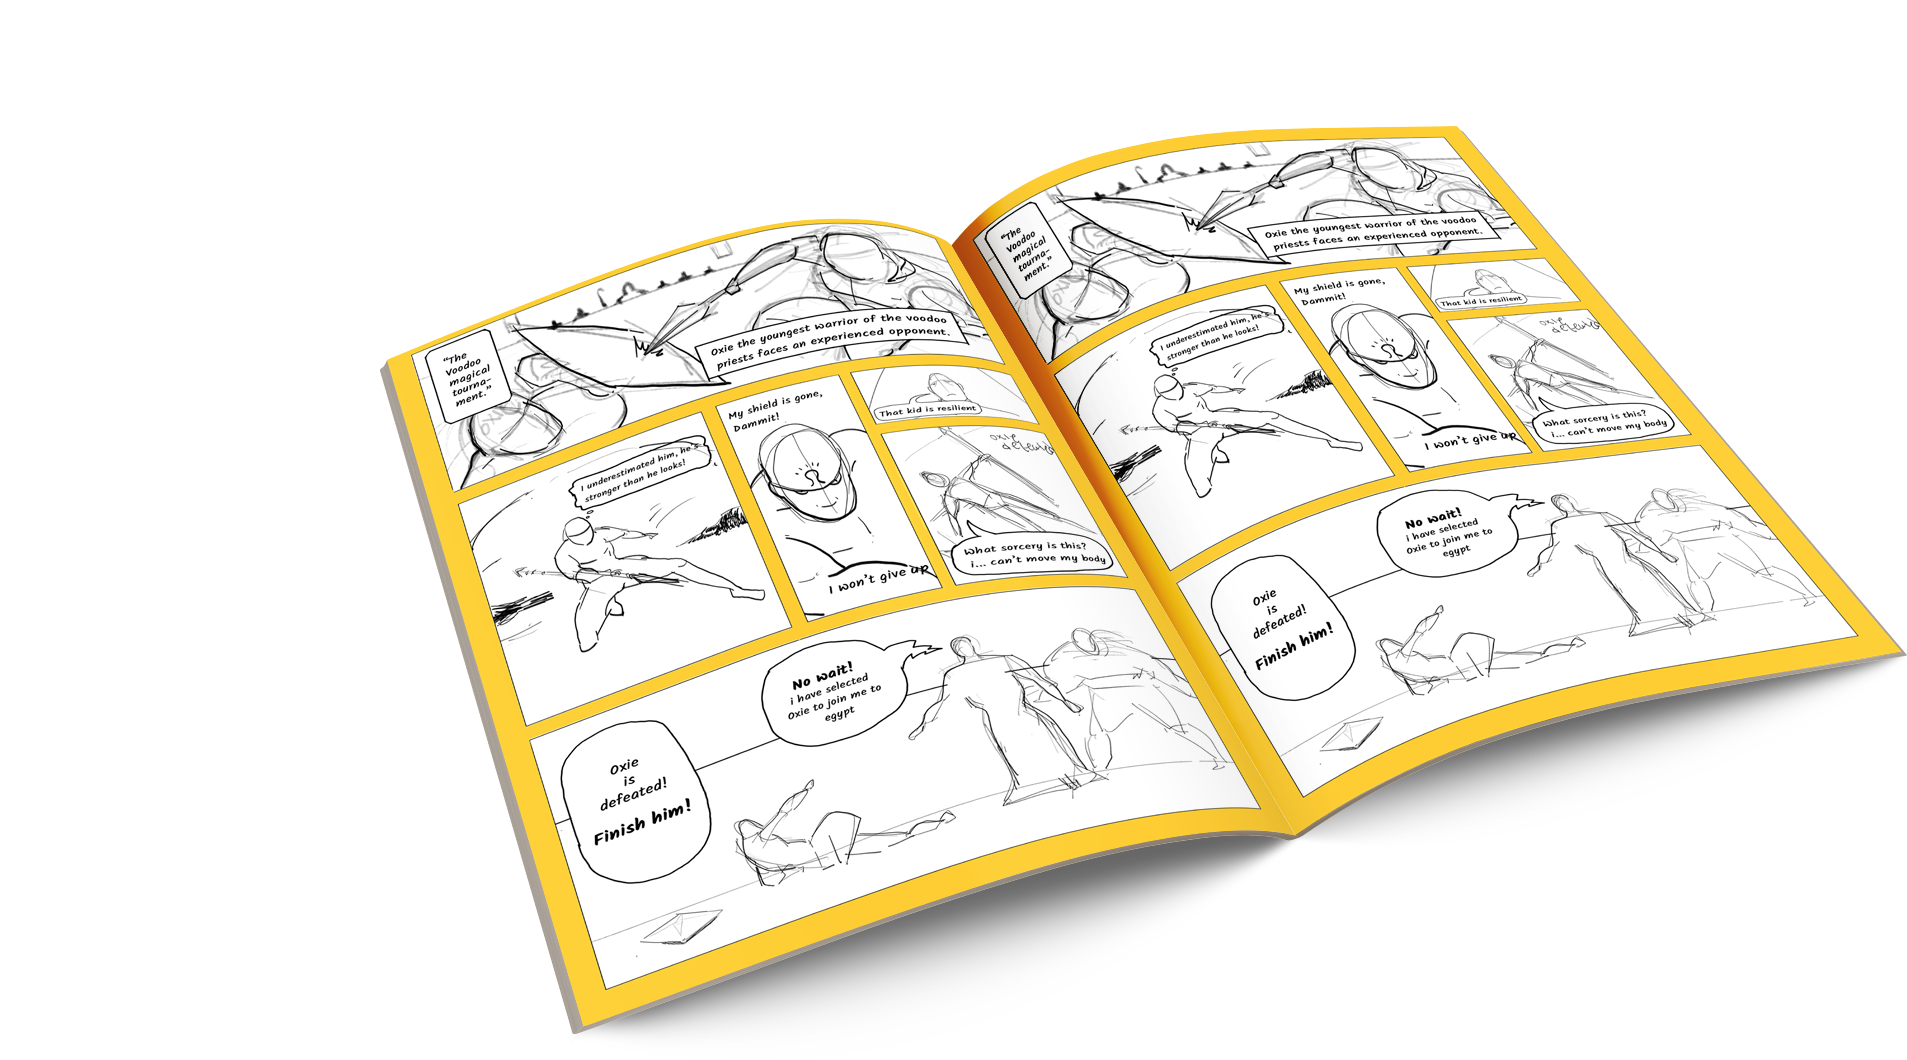
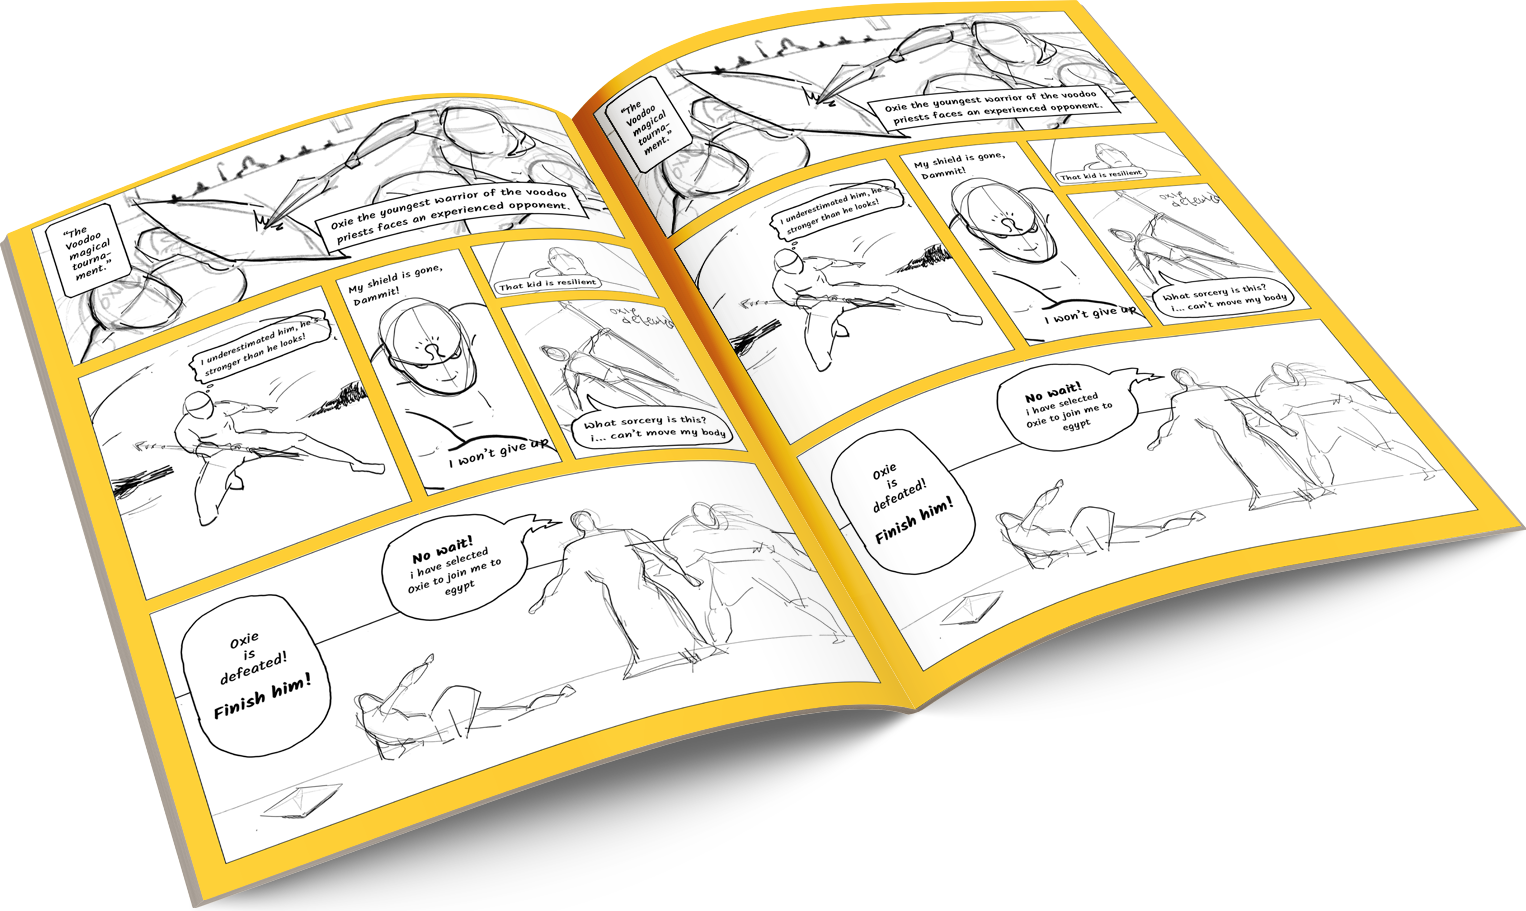
positioned mockup on the right spot

diff --git a/test.html b/test.html
@@ -1,0 +1,34 @@
+<!DOCTYPE html>
+<html lang="en">
+<head>
+    <meta charset="UTF-8">
+    <meta name="viewport" content="width=device-width, initial-scale=1.0">
+    <meta http-equiv="X-UA-Compatible" content="ie=edge">
+    <title>Document</title>
+</head>
+<style>
+section {
+  width:95%;
+  margin-left: auto;
+  margin-right: auto;
+}
+section img {
+  width: 50rem;
+  float: right;
+  shape-outside: polygon(63.5% 21.85%, 67.4% -0.2%, 77% 13.35%, 87.5% 16.8%, 94.65% 44.95%, 95.25% 88.45%, 37.15% 95.75%, 3.75% 75.1%, 2.25% 65.2%, 47.5% 44.35%, 45.5% 16.4%);
+  -webkit-shape-outside: polygon(63.5% 21.85%, 67.4% -0.2%, 77% 13.35%, 87.5% 16.8%, 94.65% 44.95%, 95.25% 88.45%, 37.15% 95.75%, 3.75% 75.1%, 2.25% 65.2%, 47.5% 44.35%, 45.5% 16.4%);
+}
+
+section div {
+margin-right: -15rem;
+}
+</style>
+<body>
+    <section>
+        <div>
+            <img src="https://www.warrenphotographic.co.uk/photography/bigs/14195-Cute-cat-and-kitten-white-background.jpg" alt="" >
+        </div>
+        <p>Lorem ipsum dolor sit amet consectetur adipisicing elit. Modi necessitatibus illum tempore aliquid possimus ea maiores eligendi, id distinctio! Quas, aut vel. Culpa consectetur labore in voluptatum repudiandae cum officiis! Lorem ipsum dolor sit amet consectetur, adipisicing elit. Modi eveniet aperiam maxime, maiores, vel voluptatum quaerat accusamus temporibus, fuga omnis ullam eligendi. Eligendi nulla eaque, maiores earum voluptas sunt excepturi? Lorem ipsum dolor sit amet, consectetur adipisicing elit. Error hic iusto sit, animi quaerat commodi sequi accusamus beatae illum expedita quisquam cupiditate amet magnam. Odit assumenda eaque aliquid mollitia omnis! Lorem ipsum dolor sit amet consectetur adipisicing elit. Maiores veniam numquam adipisci eius quisquam sed! Nulla harum omnis quis blanditiis? Inventore, possimus similique veniam optio perferendis perspiciatis. Modi, accusamus aperiam? Lorem ipsum dolor sit amet consectetur adipisicing elit. Porro, iure laborum eum nisi commodi ipsa architecto esse itaque cumque quis dolorem perferendis iusto harum, placeat nam totam repudiandae alias minima? Lorem, ipsum dolor sit amet consectetur adipisicing elit. Possimus blanditiis quis consequatur cumque minus fugiat cum similique excepturi sunt placeat aspernatur expedita, facere commodi officia deleniti praesentium dolores voluptas doloremque. Lorem ipsum dolor sit amet consectetur adipisicing elit. Nam maxime repellat id magnam dicta rem optio ex soluta odit! Ducimus, expedita et iusto mollitia in delectus officia asperiores ratione nulla. Lorem ipsum dolor sit amet consectetur adipisicing elit. Repellat quibusdam error earum. Aliquam sapiente autem ab perspiciatis vitae ipsum ea iusto? Sequi autem voluptatem, a libero necessitatibus error provident ad. Lorem ipsum dolor sit amet consectetur, adipisicing elit. Quod et perferendis a ab assumenda adipisci consequuntur consectetur architecto voluptatem! Dolorum facilis nam itaque natus blanditiis perspiciatis, minus incidunt doloremque consequuntur? Lorem ipsum dolor, sit amet consectetur adipisicing elit. Similique optio beatae eos error ea unde, explicabo alias voluptates excepturi assumenda placeat quis libero ipsum, officiis, consectetur repellendus laborum amet rem. Lorem ipsum, dolor sit amet consectetur adipisicing elit. Quaerat sequi quas ad, nisi exercitationem dolorem, blanditiis nihil nobis incidunt nemo omnis recusandae architecto pariatur aliquam inventore est eveniet esse. Aperiam. Aliquam sapiente autem ab perspiciatis vitae ipsum ea iusto? Sequi autem voluptatem, a libero necessitatibus error provident ad. Lorem ipsum dolor sit amet consectetur, adipisicing elit. Quod et perferendis a ab assumenda adipisci consequuntur consectetur architecto voluptatem! Dolorum facilis nam itaque natus blanditiis perspiciatis, minus incidunt doloremque consequuntur? Lorem ipsum dolor, sit amet consectetur adipisicing elit. Similique optio beatae eos error ea unde, explicabo alias voluptates excepturi assumenda placeat quis libero ipsum, officiis, consectetur repellendus laborum amet rem. Lorem ipsum, dolor sit amet consectetur adipisicing elit. Quaerat sequi quas ad, nisi exercitationem dolorem, blanditiis nihil nobis incidunt nemo omnis recusandae architecto pariatur aliquam inventore est eveniet esse. Aperiam. Aliquam sapiente autem ab perspiciatis vitae ipsum ea iusto? Sequi autem voluptatem, a libero necessitatibus error provident ad. Lorem ipsum dolor sit amet consectetur, adipisicing elit. Quod et perferendis a ab assumenda adipisci consequuntur consectetur architecto voluptatem! Dolorum facilis nam itaque natus blanditiis perspiciatis, minus incidunt doloremque consequuntur? Lorem ipsum dolor, sit amet consectetur adipisicing elit. Similique optio beatae eos error ea unde, explicabo alias voluptates excepturi assumenda placeat quis libero ipsum, officiis, consectetur repellendus laborum amet rem. Lorem ipsum, dolor sit amet consectetur adipisicing elit. Quaerat sequi quas ad, nisi exercitationem dolorem, blanditiis nihil nobis incidunt nemo omnis recusandae architecto pariatur aliquam inventore est eveniet esse. Aperiam. Aliquam sapiente autem ab perspiciatis vitae ipsum ea iusto? Sequi autem voluptatem, a libero necessitatibus error provident ad. Lorem ipsum dolor sit amet consectetur, adipisicing elit. Quod et perferendis a ab assumenda adipisci consequuntur consectetur architecto voluptatem! Dolorum facilis nam itaque natus blanditiis perspiciatis, minus incidunt doloremque consequuntur? Lorem ipsum dolor, sit amet consectetur adipisicing elit. Similique optio beatae eos error ea unde, explicabo alias voluptates excepturi assumenda placeat quis libero ipsum, officiis, consectetur repellendus laborum amet rem. Lorem ipsum, dolor sit amet consectetur adipisicing elit. Quaerat sequi quas ad, nisi exercitationem dolorem, blanditiis nihil nobis incidunt nemo omnis recusandae architecto pariatur aliquam inventore est eveniet esse. Aperiam.Aliquam sapiente autem ab perspiciatis vitae ipsum ea iusto? Sequi autem voluptatem, a libero necessitatibus error provident ad. Lorem ipsum dolor sit amet consectetur, adipisicing elit. Quod et perferendis a ab assumenda adipisci consequuntur consectetur architecto voluptatem! Dolorum facilis nam itaque natus blanditiis perspiciatis, minus incidunt doloremque consequuntur? Lorem ipsum dolor, sit amet consectetur adipisicing elit. Similique optio beatae eos error ea unde, explicabo alias voluptates excepturi assumenda placeat quis libero ipsum, officiis, consectetur repellendus laborum amet rem. Lorem ipsum, dolor sit amet consectetur adipisicing elit. Quaerat sequi quas ad, nisi exercitationem dolorem, blanditiis nihil nobis incidunt nemo omnis recusandae architecto pariatur aliquam inventore est eveniet esse. Aperiam. Aliquam sapiente autem ab perspiciatis vitae ipsum ea iusto? Sequi autem voluptatem, a libero necessitatibus error provident ad. Lorem ipsum dolor sit amet consectetur, adipisicing elit. Quod et perferendis a ab assumenda adipisci consequuntur consectetur architecto voluptatem! Dolorum facilis nam itaque natus blanditiis perspiciatis, minus incidunt doloremque consequuntur? Lorem ipsum dolor, sit amet consectetur adipisicing elit. Similique optio beatae eos error ea unde, explicabo alias voluptates excepturi assumenda placeat quis libero ipsum, officiis, consectetur repellendus laborum amet rem. Lorem ipsum, dolor sit amet consectetur adipisicing elit. Quaerat sequi quas ad, nisi exercitationem dolorem, blanditiis nihil nobis incidunt nemo omnis recusandae architecto pariatur aliquam inventore est eveniet esse. Aperiam. Aliquam sapiente autem ab perspiciatis vitae ipsum ea iusto? Sequi autem voluptatem, a libero necessitatibus error provident ad. Lorem ipsum dolor sit amet consectetur, adipisicing elit. Quod et perferendis a ab assumenda adipisci consequuntur consectetur architecto voluptatem! Dolorum facilis nam itaque natus blanditiis perspiciatis, minus incidunt doloremque consequuntur? Lorem ipsum dolor, sit amet consectetur adipisicing elit. Similique optio beatae eos error ea unde, explicabo alias voluptates excepturi assumenda placeat quis libero ipsum, officiis, consectetur repellendus laborum amet rem. Lorem ipsum, dolor sit amet consectetur adipisicing elit. Quaerat sequi quas ad, nisi exercitationem dolorem, blanditiis nihil nobis incidunt nemo omnis recusandae architecto pariatur aliquam inventore est eveniet esse. Aperiam.</p>
+      </section>
+</body>
+</html>

diff --git a/index.html b/index.html
@@ -55,48 +55,47 @@
                 </ul>
             </div>        
         </div >
-    </div>  
-
-        <!-- section what is kushobi -->
-        <section class="grid-container fluid"> 
-            <br>
-            <br>
-            <br>
-            <br>
-         
-            <img src="static\images\landing\comic-book-finished.png" alt="Mockup kushobi comic" class="mockup clip-mockup-polygon float-right landing-image"><!-- change the comic book image -->
-
-            <header><h2>What is <span>Kushobi</span></h2></header><!-- capitalize -->
-            <p>Lorem ipsum dolor sit amet consectetur adipisicing elit. Perferendis placeat ipsam amet ratione. Ea eos provident similique, dolores omnis culpa ratione laborum velit corrupti minus! Tempora aliquid cupiditate quam minus?Lorem ipsum dolor, sit amet consectetur adipisicing elit. Nesciunt excepturi voluptatum facere dignissimos quas natus architecto tempore iusto dolor cupiditate cumque officiis deserunt, libero, modi vero omnis atque facilis perspiciatis. Lorem ipsum dolor, sit amet consectetur adipisicing elit. Provident, quo. Odit, magni vitae a assumenda consequatur atque blanditiis nulla numquam quae in vero deleniti asperiores accusamus, excepturi ipsam quisquam incidunt! Lorem ipsum dolor sit amet consectetur adipisicing elit. Nam eum excepturi modi alias dicta nemo veniam ipsum, magnam hic dolor libero iure quod molestiae nostrum obcaecati, tempore quas officia voluptas!</p>
-            <br>
-            <br>
-            <br>
-
-
-        </section>
-
-        <section class="grid-container fluid">
+    </div>
+    <br>
+    <!-- section what is kushobi -->
+    <section class="grid-container fluid">  
+        <div class="grid-x">
+            <div class="cell">
+                    <header><h2>What is <span>Kushobi</span></h2></header><!-- capitalize -->
+                    <p>Lorem ipsum dolor sit amet consectetur adipisicing elit. Perferendis placeat ipsam amet ratione. Ea eos provident similique, dolores omnis culpa ratione laborum velit corrupti minus! Tempora aliquid cupiditate quam minus?Lorem ipsum dolor, sit amet consectetur adipisicing elit. Nesciunt excepturi voluptatum facere dignissimos quas natus architecto tempore iusto dolor cupiditate cumque officiis deserunt, libero, modi vero omnis atque facilis perspiciatis. Lorem ipsum dolor, sit amet consectetur adipisicing elit. Provident, quo. Odit, magni vitae a assumenda consequatur atque blanditiis nulla numquam quae in vero deleniti asperiores accusamus, excepturi ipsam quisquam incidunt! Lorem ipsum dolor sit amet consectetur adipisicing elit. Nam eum excepturi modi alias dicta nemo veniam ipsum, magnam hic dolor libero iure quod molestiae nostrum obcaecati, tempore quas officia voluptas! Lorem ipsum dolor sit amet consectetur adipisicing elit. Labore asperiores doloribus dicta quibusdam dignissimos voluptate doloremque soluta voluptatum! Blanditiis ex eius laboriosam deserunt voluptates unde natus eaque labore, quos accusantium! Lorem ipsum dolor sit amet consectetur adipisicing elit. Reprehenderit eaque eum sit nesciunt, doloribus velit quisquam neque dolorem itaque ex quasi soluta maiores, laudantium totam rem alias nulla laborum accusantium. Lorem ipsum, dolor sit amet consectetur adipisicing elit. Eaque dolores a eveniet qui quia et consectetur doloremque nemo unde laboriosam aliquid quis, iste nesciunt consequatur ullam veniam quas laborum aperiam. Lorem ipsum dolor sit amet consectetur adipisicing elit. Omnis ducimus optio est sequi delectus consequuntur incidunt ab debitis laborum, aliquam quos sint eaque! Esse doloremque rerum ex neque labore harum. Lorem ipsum dolor sit amet consectetur adipisicing elit. Autem vel quis ex dolorum culpa, quod in sequi provident, voluptate asperiores ullam nam quisquam a minima voluptatum iusto unde enim saepe? Lorem ipsum dolor sit amet consectetur adipisicing elit. Accusamus sapiente sequi cum, dolores beatae eveniet expedita cupiditate recusandae laborum laudantium aperiam temporibus. Voluptatem quae non minima quibusdam mollitia ea. Ipsam.</p>
+            </div>
+            <div class="grid-x">
+                    <div class="cell large-7">
+                        
                         <!-- help wanted -->
-            <div>
-                <header><h2>Help <span>wanted</span></h2></header><!-- capitalize -->
-                <p>Lorem ipsum dolor sit amet consectetur adipisicing elit. Perferendis placeat ipsam amet ratione. Ea eos provident similique, dolores omnis culpa ratione laborum velit corrupti minus! Tempora aliquid cupiditate quam minus?Lorem ipsum dolor, sit amet consectetur adipisicing elit. Nesciunt excepturi voluptatum facere dignissimos quas natus architecto tempore iusto dolor cupiditate cumque officiis deserunt, libero, modi vero omnis atque facilis perspiciatis.</p>
-                <a href="#">donate</a><!--capitalize (button)-->
+                        <header><h2>Help <span>wanted</span></h2></header><!-- capitalize -->
+                        <p>Lorem ipsum dolor sit amet consectetur adipisicing elit. Perferendis placeat ipsam amet ratione. Ea eos provident similique, dolores omnis culpa ratione laborum velit corrupti minus! Tempora aliquid cupiditate quam minus?Lorem ipsum dolor, sit amet consectetur adipisicing elit. Nesciunt excepturi voluptatum facere dignissimos quas natus architecto tempore iusto dolor cupiditate cumque officiis deserunt, libero, modi vero omnis atque facilis perspiciatis.</p>
+                        <a href="#" class="button large">donate</a><!--capitalize (button)-->
+                    </div>
+                    <div class="cell large-5" style="position: relative; height: 30rem;">
+                        <div class="mockup-container">
+                            <img src="static\images\landing\comic-book-finished.png" alt="Mockup kushobi comic" class="mockup"><!-- change the comic book image -->
+                        </div>
+                    </div>
+                </div>
             </div>
 
+    </section>
 
-        </section>
 
-        <!-- About -->
-        <section><!-- background image, in landing folder -->
+    <!-- About -->
+    <div class="about"><!-- background image, in landing folder -->
+        <div class="overlay"></div><!-- overlay -->
+        <div class="grid-container fluid clearfix">
+            
+                    <img src="/static/images/headshot/headshot-circle.png" alt="Nelly" class="float-left headshot"> 
 
-            <div></div><!-- overlay -->
-            <div><img src="static\images\headshot\head1.jpg" alt="Nelly "></div><!-- headshot, edit alt name, polygon-->
-            <header>
-                <h2>about the <span>creator</span></h2>
-            </header>
-            <p>Lorem ipsum dolor sit amet consectetur adipisicing elit. Iste placeat expedita et doloribus? Distinctio aut, fugiat quidem provident sequi pariatur sapiente alias? Ex rem earum vel dolore tenetur incidunt commodi. Lorem ipsum dolor sit amet consectetur adipisicing elit. Fugiat, neque corrupti saepe minima adipisci incidunt sapiente sit. Consequatur corporis voluptatem quae, sed expedita quia aut modi ducimus maxime. Hic, deserunt.</p>
+                    <h2>about the <span>creator</span></h2>  
+                    <p>Lorem ipsum dolor sit amet consectetur adipisicing elit. Iste placeat expedita et doloribus? Distinctio aut, fugiat quidem provident sequi pariatur sapiente alias? Ex rem earum vel dolore tenetur incidunt commodi. Lorem ipsum dolor sit amet consectetur adipisicing elit. Fugiat, neque corrupti saepe minima adipisci incidunt sapiente sit. Consequatur corporis voluptatem quae, sed expedita quia aut modi ducimus maxime. Hic, deserunt.</p>
 
-        </section>
+        </div>
+
+    </div>
 
         <!-- characters  -->
         <section>

diff --git a/static/css/styles.css b/static/css/styles.css
@@ -28,8 +28,8 @@ h6 {
 }
 
 
-
 /* foundation settings */
+
 .top-bar,
 .top-bar ul,
 .menu {
@@ -45,42 +45,24 @@ h6 {
     width: 90%;
 }
 
-/* padding  */
-.padding-small {
-    padding-left: 0.25rem;
-    padding-right: 0.25rem;    
+
+.button {
+    background-color: var(--highlight-color);
+    color: var(--base-color-light);
 }
-
-.padding-normal {
-    padding-left: 0.5rem;
-    padding-right: 0.5rem;
+    .button:hover {
+        background-color: #629472;
+    }
+    .button.large {
+        padding-right: 2rem;
+        padding-left: 2rem;
+    }
+a { 
+    color: var(--base-color-dark);
 }
-
-.padding-big {
-    padding-left: 0.75rem;
-    padding-right: 0.75rem;
-}
-
-/* margin  */
-.margin-small {
-    margin-left: 1rem;
-    margin-right: 1rem;
-}
-
-.margin-normal {
-    margin-left: 2rem;
-    margin-right: 2rem;
-}
-
-.margin-big {
-    margin-left: 3rem;
-    margin-right: 3rem;
-}
-
-
+    
 
 /* landing - hero */
-
 .landing-hero {
     background-color: var(--theme-color);
 }
@@ -96,15 +78,56 @@ h6 {
 
 
 /* what is kushobi section */
-
-.landing-image{
-    position: relative;
-    left: 20rem; 
-    top: 5rem
+.mockup-container {
+    position: absolute;
+    width: 150%;
 }
 .mockup{
-    overflow: hidden;
-    width: 140rem;
-    shape-outside: polygon(nonzero, 58.8% 11.25%, 77.05% 10.4%, 99.65% 32.55%, 100% 67.55%, 96.6% 64.95%, 69.2% 79.15%, 29.85% 98.8%, 28.2% 88.9%, 18.8% 33.75%, 32.85% 23.3%, 42.25% 18.7%, 49.2% 20.35%);
-    -webkit-shape-outside: polygon(nonzero,58.8% 11.25%, 77.05% 10.4%, 99.65% 32.55%, 100% 67.55%, 96.6% 64.95%, 69.2% 79.15%, 29.85% 98.8%, 28.2% 88.9%, 18.8% 33.75%, 32.85% 23.3%, 42.25% 18.7%, 49.2% 20.35%);
+    width: 100%;
+    z-index: 0;
 }
+    
+
+.about {
+    width: 100%;
+    position: relative;
+    max-height: 50rem;
+    z-index: -5;
+    background-image: url('/static/images/landing/about-image.jpg');
+    background-size: cover;
+    background-repeat: no-repeat;
+    background-attachment: fixed;
+    /* make these parts responsive */
+    /* transform: translateY(-5rem); */
+}
+    .about .overlay {
+        height: 100%;
+        width: 100%;
+        position: absolute;
+        background-color: var(--theme-color);
+        opacity: 0.4;
+        z-index: -5;
+    }
+
+    .about .grid-container {
+        padding-bottom: 5rem;
+        padding-top: 5rem;
+    }
+
+    .clearfix {
+        overflow: hidden;
+    }
+
+
+    .headshot {
+        width:20em;
+        height: 20em;
+        max-height: 15rem;
+        max-width: 15rem;
+
+        margin-right: 2rem;
+        shape-outside: circle();
+        -webkit-shape-outside: circle();
+        -moz-shape-outside: circle();
+        -o-shape-outside: circle();
+    }
